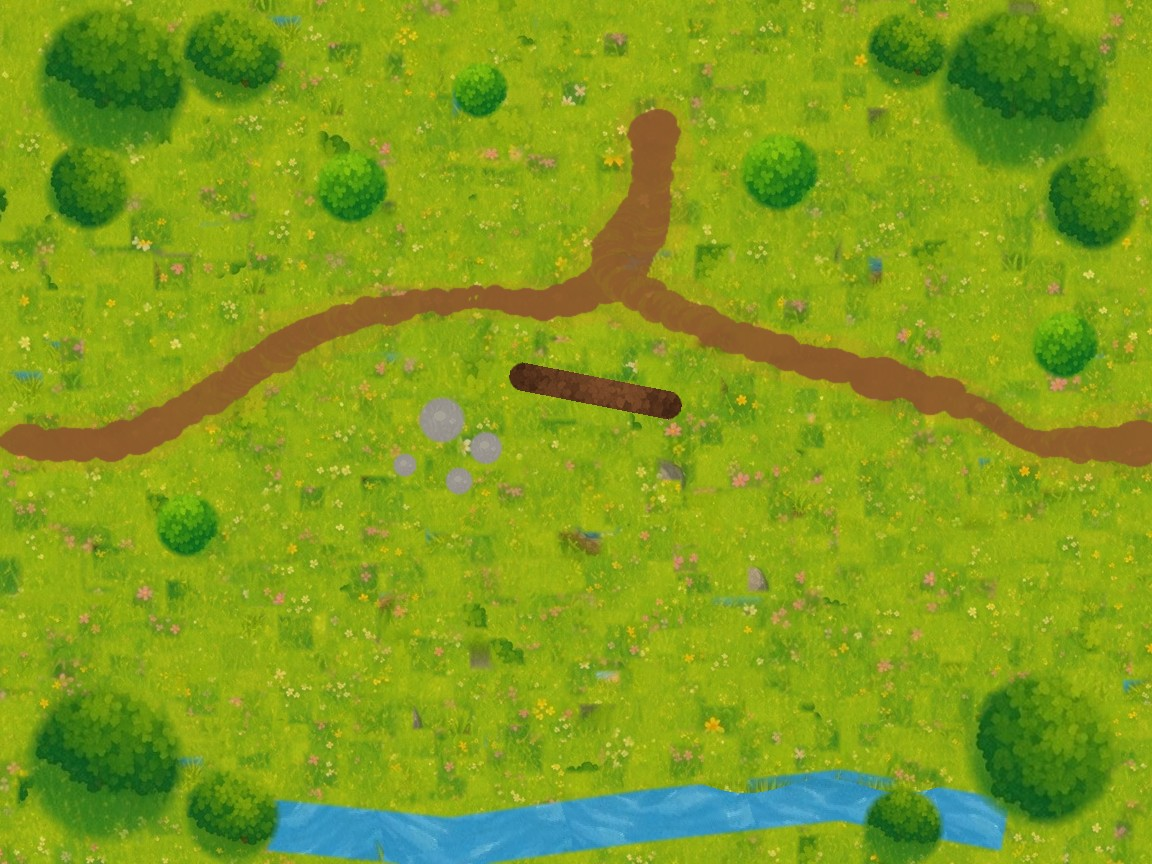
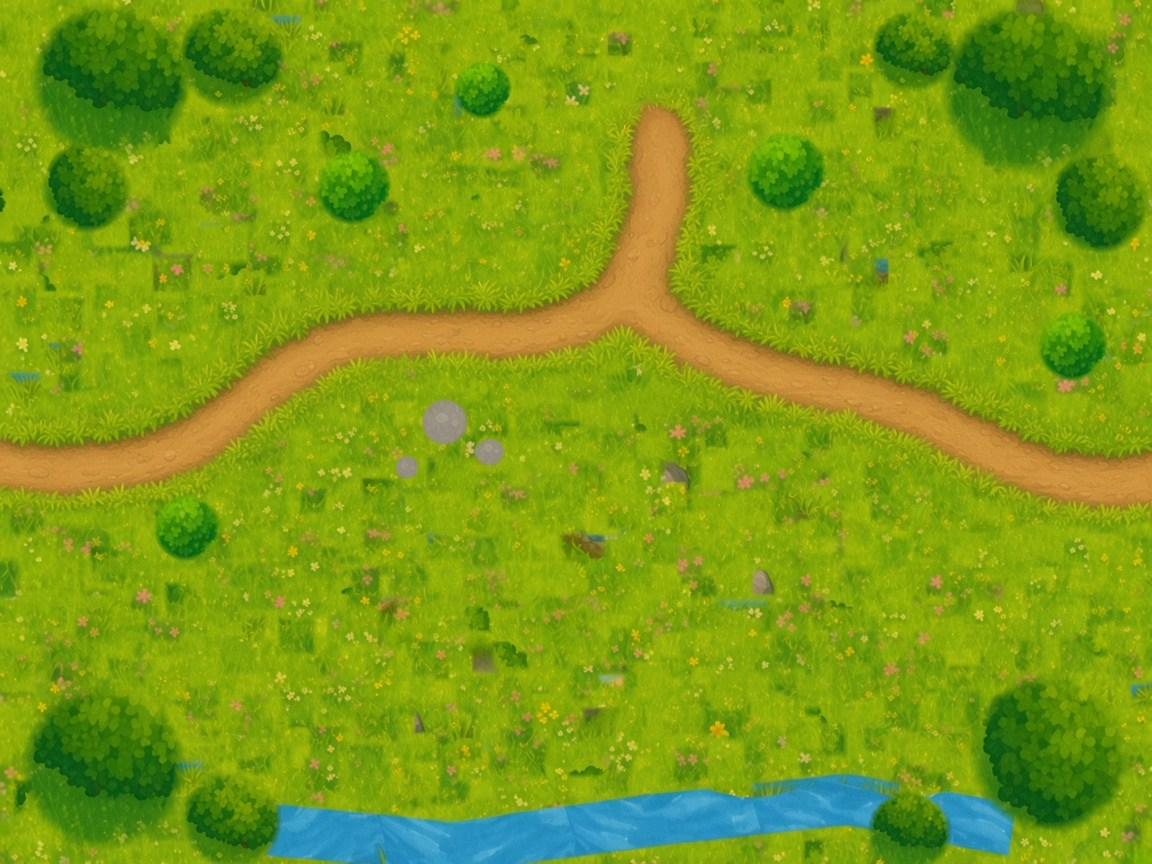
Give the grounds dirt paths and keep the chosen friend places in the game.

diff --git a/index.html b/index.html
@@ -680,6 +680,7 @@
     <div id="placeZoom" hidden>
       <button type="button" id="zoomIn">Zoom in</button>
       <button type="button" id="zoomOut">Zoom out</button>
+      <button type="button" id="zoomFit">Whole map</button>
     </div>
     <div id="meet" class="meet" hidden>
       <p id="meetTag"></p>
@@ -1394,7 +1395,7 @@
     img.onload = function () { mark(img); };
     img.onerror = function () { mark(img); };
     var ext = (n.indexOf("plate-") === 0 || n === "meadow-ground") ? ".jpg" : ".png";
-    img.src = "img/" + n + ext;
+    img.src = "img/" + n + ext + (n === "plate-garden" ? "?v=wander2" : "");
     if (img.complete) mark(img);
     imgs[n] = img;
   });
@@ -1566,9 +1567,9 @@
       jungle: { x: 1000, y: 700 }
     };
     var spots = {
-      ladybug: [300, 260], butterfly: [2100, 1360], bee: [700, 1560], snail: [1100, 1300],
-      ant: [1200, 960], dragonfly: [300, 960], grasshopper: [1400, 1560], caterpillar: [1000, 360],
-      worm: [2100, 660], moth: [1700, 960], cricket: [800, 760], stickinsect: [800, 1160],
+      ladybug: [617, 197], butterfly: [2161, 1365], bee: [501, 1161], snail: [1705, 1139],
+      ant: [1200, 960], dragonfly: [397, 870], grasshopper: [1669, 1576], caterpillar: [1465, 779],
+      worm: [1342, 252], moth: [478, 1504], cricket: [1828, 417], stickinsect: [1200, 870],
       rabbit: [1457, 525], fox: [2244, 1056], hedgehog: [156, 1047], robin: [1962, 942],
       beetle: [1162, 860], deer: [866, 531], owl: [1216, 429], squirrel: [688, 818],
       badger: [1171, 286], frog: [1445, 798], mouse: [347, 744], duck: [1772, 650],
@@ -1704,7 +1705,7 @@
     applyWild();
   }
   layoutOutdoor();
-  loadFriendSpots();
+  try { localStorage.removeItem("sf-friend-spots"); } catch (err) {}
   var audioCtx = null;
   var musicGain = null;
   var musicTimer = null;
@@ -2024,10 +2025,21 @@
   var placeZoomBox = document.getElementById("placeZoom");
   var placeZoom = 1;
   var pinch = null;
-  var PLACE_KEY = "sf-friend-spots";
+  function baseCam(area) {
+    var sc = (1152 / 1200) * 0.9;
+    var fit = Math.min(viewW / area.w, viewH / area.h);
+    if (sc <= fit) sc = fit * 1.12;
+    return { sc: sc, fit: fit };
+  }
+
+  function minPlaceZoom() {
+    var cam = baseCam(areaNow());
+    if (!cam.sc || !cam.fit) return 0.2;
+    return Math.max(0.05, (cam.fit * 0.98) / cam.sc);
+  }
 
   function setPlaceZoom(z) {
-    placeZoom = clamp(z, 0.55, 2.5);
+    placeZoom = clamp(z, minPlaceZoom(), 2.5);
   }
 
   function touchSpan(touches) {
@@ -2035,28 +2047,21 @@
     return Math.hypot(touches[0].clientX - touches[1].clientX, touches[0].clientY - touches[1].clientY);
   }
 
-  function loadFriendSpots() {
-    var raw = null;
-    try { raw = JSON.parse(localStorage.getItem(PLACE_KEY) || "null"); } catch (err) { raw = null; }
-    if (!raw) return;
-    ORDER.forEach(function (id) {
-      AREAS[id].creatures.forEach(function (c) {
-        var spot = raw[c.id];
-        if (!spot || typeof spot.x !== "number" || typeof spot.y !== "number") return;
-        c.x = spot.x;
-        c.y = spot.y;
-      });
+  function saveFriendPlace(c) {
+    var x = Math.round(c.x);
+    var y = Math.round(c.y);
+    c.x = x;
+    c.y = y;
+    fetch("/save-friend", {
+      method: "POST",
+      headers: { "Content-Type": "application/json" },
+      body: JSON.stringify({ id: c.id, x: x, y: y })
+    }).then(function (res) {
+      if (!res.ok) throw new Error("save");
+      setPlaceNote(c.name + " is saved in the game.");
+    }).catch(function () {
+      setPlaceNote(c.name + " is on the screen only. Use the local game so the place is saved in the game file.");
     });
-  }
-
-  function saveFriendSpots() {
-    var data = {};
-    ORDER.forEach(function (id) {
-      AREAS[id].creatures.forEach(function (c) {
-        data[c.id] = { x: Math.round(c.x), y: Math.round(c.y) };
-      });
-    });
-    try { localStorage.setItem(PLACE_KEY, JSON.stringify(data)); } catch (err) {}
   }
 
   function friendAtWorld(wx, wy) {
@@ -2092,12 +2097,21 @@
     return best;
   }
 
+  function setPlaceNote(text) {
+    var note = document.getElementById("placeNote");
+    if (note) note.textContent = text;
+  }
+
   function renderPlaceList() {
     if (!placeMode || !placeList) return;
     placeList.innerHTML = "";
     var title = document.createElement("p");
-    title.textContent = "Drag a friend";
+    title.textContent = "Drag a friend, then let go. That place is saved in the game.";
     placeList.appendChild(title);
+    var note = document.createElement("p");
+    note.id = "placeNote";
+    note.textContent = "Each place is written into the game file.";
+    placeList.appendChild(note);
     areaNow().creatures.forEach(function (c) {
       var btn = document.createElement("button");
       btn.type = "button";
@@ -2138,6 +2152,10 @@
       if (!placeMode) return;
       setPlaceZoom(placeZoom / 1.2);
     });
+    document.getElementById("zoomFit").addEventListener("click", function () {
+      if (!placeMode) return;
+      setPlaceZoom(minPlaceZoom());
+    });
   }
   if (placeBtn) {
     placeBtn.addEventListener("click", function () { setPlaceMode(!placeMode); });
@@ -2175,9 +2193,10 @@
 
   function finishFriendDrag() {
     if (!placeDrag) return;
+    var friend = placeDrag.c;
     placeDrag = null;
-    saveFriendSpots();
     renderPlaceList();
+    saveFriendPlace(friend);
   }
 
   function pinchSpan() {
@@ -2895,16 +2914,6 @@
     if (plate && plate.naturalWidth) {
       g.drawImage(plate, 0, 0, cssW, cssH);
     }
-    if (area.id === "meadow") {
-      g.lineCap = "round";
-      g.lineJoin = "round";
-      g.strokeStyle = "rgba(146, 96, 48, 0.95)";
-      g.lineWidth = Math.max(3, 110 * scale);
-      g.beginPath();
-      g.moveTo(sx(MEADOW_TRACK[0][0]), sy(MEADOW_TRACK[0][1]));
-      for (var pi = 1; pi < MEADOW_TRACK.length; pi++) g.lineTo(sx(MEADOW_TRACK[pi][0]), sy(MEADOW_TRACK[pi][1]));
-      g.stroke();
-    }
     if (!(plate && plate.naturalWidth)) {
       var rects = area.corridors && area.corridors.length ? area.corridors : [{ x: 0, y: 0, w: area.w, h: area.h }];
       g.fillStyle = "#6b4a2a";
@@ -3297,9 +3306,7 @@
 
   function wildCam(area) {
     // 90% of the 140px framing, so Frank is about 126px and a bit more ground shows.
-    var sc = (1152 / 1200) * 0.9;
-    var fit = Math.min(viewW / area.w, viewH / area.h);
-    if (sc <= fit) sc = fit * 1.12;
+    var sc = baseCam(area).sc;
     if (placeMode) sc = sc * placeZoom;
     var worldW = viewW / sc;
     var worldH = viewH / sc;
@@ -3375,26 +3382,9 @@
   }
 
   function drawSignScreen(s) {
-    var cam = wildCam(areaNow());
     var label = s.dir > 0 ? s.text + " →" : s.dir < 0 ? "← " + s.text : s.text + " ↑";
     ctx.save();
-    ctx.setTransform(dpr, 0, 0, dpr, 0, 0);
-    var fontPx = 16;
-    ctx.font = "800 " + fontPx + "px Nunito, Trebuchet MS, sans-serif";
-    var bw = Math.ceil(ctx.measureText(label).width) + Math.round(fontPx * 1.7);
-    var bh = Math.round(fontPx * 1.85);
-    var postH = Math.round(fontPx * 1.45);
-    var x = cam.ox + s.x * cam.sc;
-    var y = cam.oy + s.y * cam.sc;
-    if (x < -bw || x > viewW + bw || y - bh > viewH + 8 || y + postH < -8) {
-      ctx.restore();
-      return;
-    }
-    if (x - bw / 2 < 8) x = 8 + bw / 2;
-    if (x + bw / 2 > viewW - 8) x = viewW - 8 - bw / 2;
-    if (y - bh - 4 < 8) y = bh + 12;
-    if (y + postH > viewH - 6) y = viewH - 6 - postH;
-    drawWoodSign(x, y, label, fontPx);
+    drawWoodSign(s.x, s.y, label, 28);
     ctx.restore();
   }
 
@@ -4056,32 +4046,6 @@
     return x >= camX - pad && x <= camX + viewW + pad && y >= camY - pad && y <= camY + viewH + pad;
   }
 
-  var MEADOW_TRACK = [
-    [25, 920], [97, 925], [195, 926], [281, 909], [358, 873], [438, 828],
-    [520, 772], [608, 711], [709, 669], [824, 642], [938, 625], [1044, 626],
-    [1144, 632], [1227, 608], [1296, 557], [1344, 500], [1361, 443], [1360, 385],
-    [1361, 333], [1361, 281], [1359, 259], [1356, 293], [1350, 358], [1329, 423],
-    [1286, 494], [1281, 562], [1357, 624], [1474, 680], [1586, 723], [1703, 754],
-    [1812, 781], [1909, 810], [1994, 838], [2061, 867], [2106, 898], [2159, 920],
-    [2250, 925], [2344, 921], [2375, 920]
-  ];
-
-  function drawWornPath() {
-    function stroke(width, color) {
-      ctx.lineWidth = width;
-      ctx.lineCap = "round";
-      ctx.lineJoin = "round";
-      ctx.strokeStyle = color;
-      ctx.beginPath();
-      ctx.moveTo(MEADOW_TRACK[0][0], MEADOW_TRACK[0][1]);
-      var i;
-      for (i = 1; i < MEADOW_TRACK.length; i++) ctx.lineTo(MEADOW_TRACK[i][0], MEADOW_TRACK[i][1]);
-      ctx.stroke();
-    }
-    stroke(188, "rgba(154, 132, 62, 0.92)");
-    stroke(108, "rgba(138, 86, 42, 0.96)");
-  }
-
   function drawWild(area, time) {
     ctx.setTransform(dpr, 0, 0, dpr, 0, 0);
     ctx.fillStyle = area.ground;
@@ -4092,7 +4056,6 @@
     camY = cam.camY;
     var plate = imgs[area.plate];
     if (plate && plate.naturalWidth) ctx.drawImage(plate, 0, 0, area.w, area.h);
-    if (area.id === "meadow") drawWornPath();
     if (area.id === "hollow" && area.trail) {
       var ti;
       for (ti = 0; ti < area.trail.length; ti++) drawPrint(area.trail[ti][0], area.trail[ti][1], 0);
